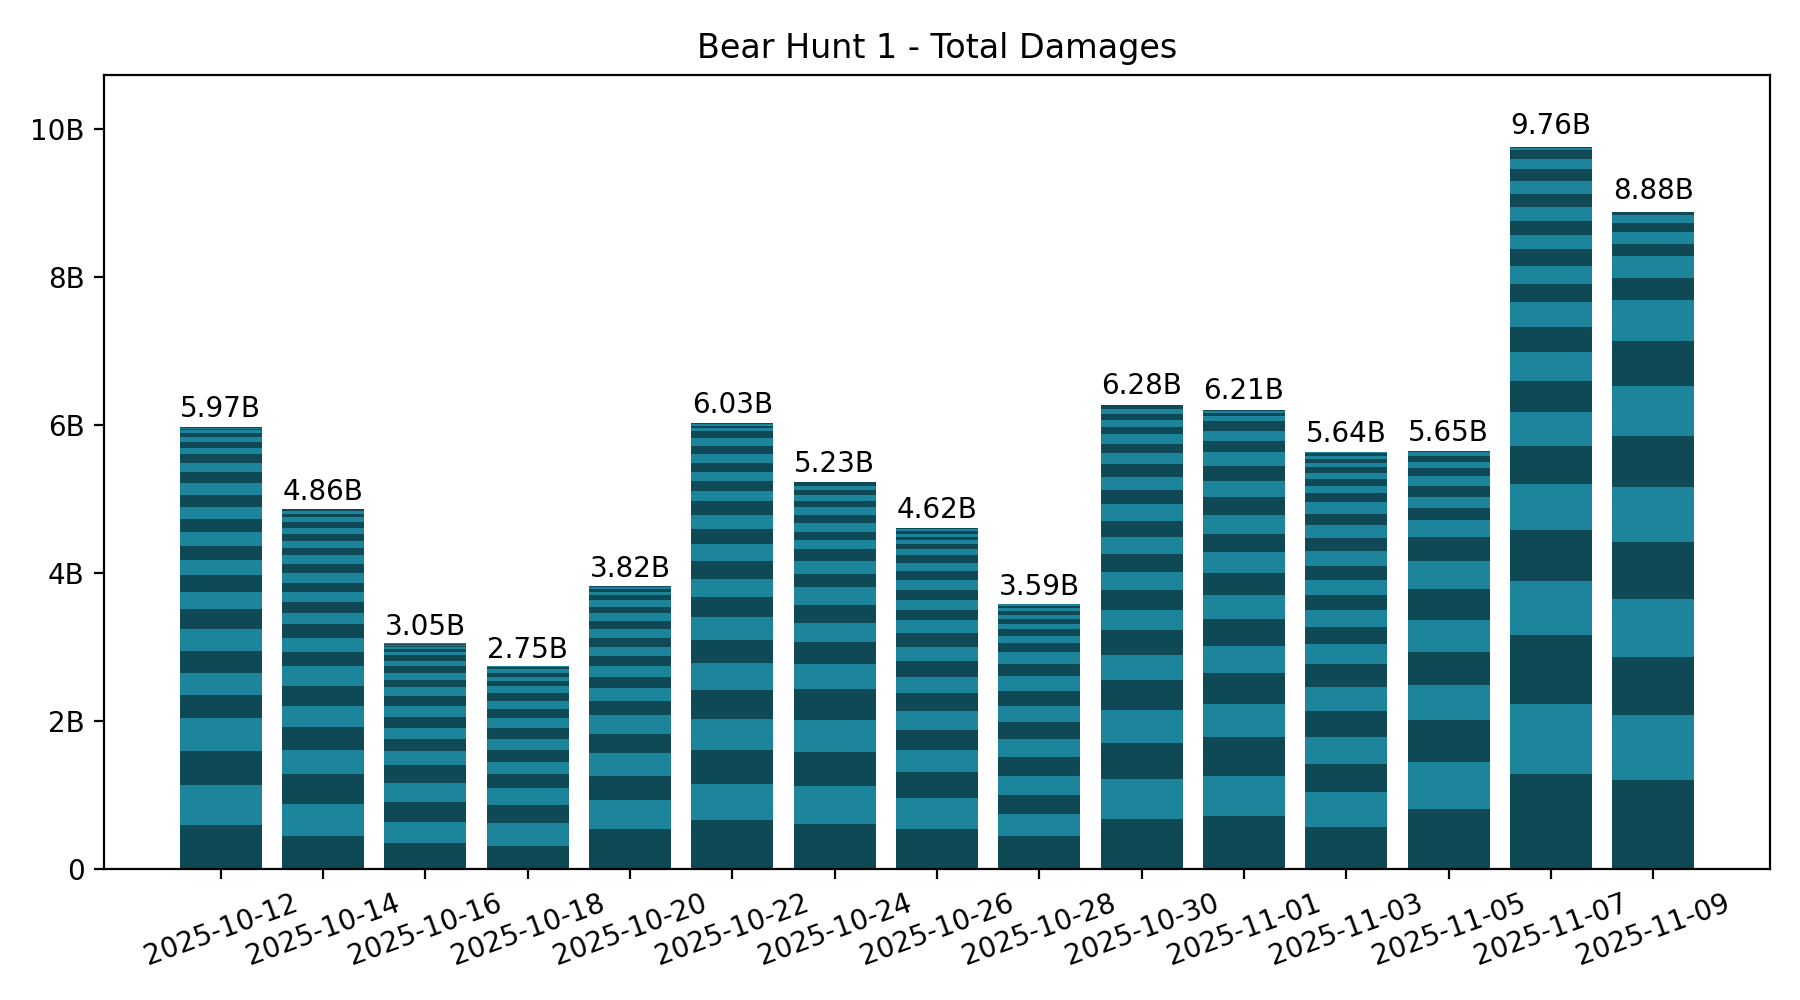
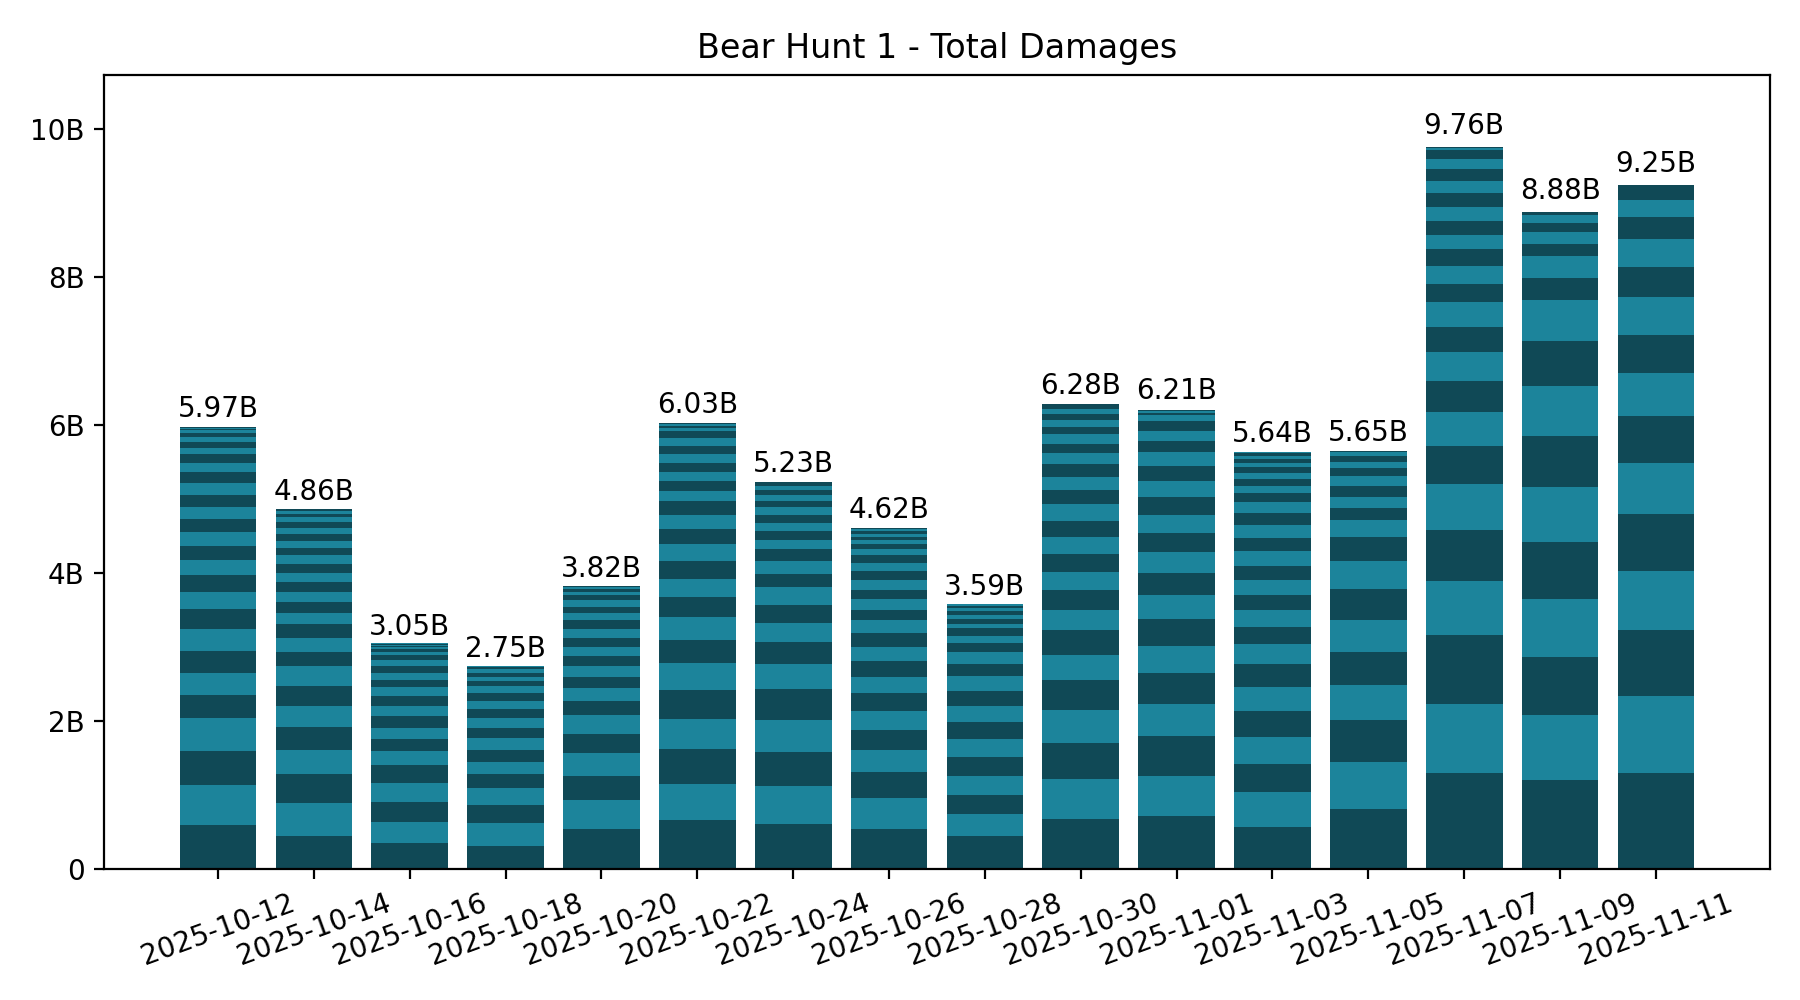
chore: auto updates

Changed region(s): [[0.0933, 0.093, 0.9644, 0.868], [0.0622, 0.899, 0.9644, 0.961]]

diff --git a/bear_hunt/README.md b/bear_hunt/README.md
@@ -69,6 +69,7 @@ print(
 | 2025-11-05 |        19 |       5.65B |
 | 2025-11-07 |        25 |       9.76B |
 | 2025-11-09 |        17 |       8.88B |
+| 2025-11-11 |        16 |       9.25B |
 
 <!-- [[[end]]] -->
 
@@ -90,50 +91,49 @@ print(
 
 |   # | Player           |   Score | # Hunts |
 | --: | :--------------- | ------: | ------: |
-|   1 | 達努巴克         |   5.11B |       7 |
-|   2 | Lyghtz           |   4.49B |       7 |
-|   3 | Troka            |   3.16B |       7 |
-|   4 | Llyod Frontera   |   2.94B |       7 |
-|   5 | Cery             |   2.93B |       4 |
-|   6 | IrotRiot         |   2.75B |       7 |
-|   7 | LadyLove         |   2.58B |       7 |
-|   8 | Briou            |   2.26B |       7 |
-|   9 | FallingRegrets   |   2.07B |       6 |
-|  10 | Coma             |   2.07B |       5 |
-|  11 | Sjefen           |   1.93B |       6 |
-|  12 | Darth Porpoise   |   1.54B |       6 |
-|  13 | BlackBebe        |   1.15B |       4 |
-|  14 | Mill2y           |   1.08B |       2 |
-|  15 | CiusconUnchained |   1.08B |       6 |
-|  16 | DarkPanda        | 905.49M |       7 |
-|  17 | Queen of Cats    | 852.06M |       5 |
-|  18 | Sir Bishop       | 604.80M |       6 |
-|  19 | Lord_DJ          | 587.78M |       3 |
-|  20 | Brett Sinclair   | 526.84M |       4 |
-|  21 | MOnsTruM224      | 506.25M |       6 |
+|   1 | Lyghtz           |   5.08B |       7 |
+|   2 | 達努巴克         |   4.82B |       6 |
+|   3 | Cery             |   3.82B |       5 |
+|   4 | Troka            |   3.73B |       7 |
+|   5 | Llyod Frontera   |   3.22B |       7 |
+|   6 | IrotRiot         |   3.19B |       7 |
+|   7 | LadyLove         |   2.78B |       7 |
+|   8 | Briou            |   2.67B |       7 |
+|   9 | Coma             |   2.45B |       5 |
+|  10 | Sjefen           |   2.43B |       6 |
+|  11 | FallingRegrets   |   2.33B |       6 |
+|  12 | Darth Porpoise   |   1.78B |       6 |
+|  13 | 遠努巴克         |   1.30B |       1 |
+|  14 | CiusconUnchained |   1.26B |       6 |
+|  15 | Mill2y           |   1.08B |       2 |
+|  16 | BlackBebe        |   1.06B |       3 |
+|  17 | DarkPanda        | 984.05M |       7 |
+|  18 | Lord_DJ          | 878.91M |       4 |
+|  19 | Queen of Cats    | 687.58M |       4 |
+|  20 | Sir Bishop       | 544.52M |       5 |
+|  21 | Brett Sinclair   | 526.84M |       4 |
 |  22 | Queen of Hearts  | 488.04M |       3 |
-|  23 | Professor        | 456.47M |       2 |
-|  24 | LEA              | 451.07M |       6 |
+|  23 | MOnsTruM224      | 483.95M |       5 |
+|  24 | Professor        | 456.47M |       2 |
 |  25 | Lord Adoniran    | 440.15M |       2 |
-|  26 | Thadeus          | 434.55M |       2 |
-|  27 | Azrael           | 411.80M |       2 |
+|  26 | Azrael           | 411.80M |       2 |
+|  27 | LEA              | 386.90M |       5 |
 |  28 | HasannEmree      | 352.14M |       2 |
 |  29 | Trimute          | 344.32M |       3 |
-|  30 | Dossari          | 296.95M |       2 |
-|  31 | King of Dogs     | 223.89M |       3 |
+|  30 | Thadeus          | 337.10M |       2 |
+|  31 | Dossari          | 296.95M |       2 |
 |  32 | Dumblidore       | 206.77M |       2 |
-|  33 | Supernova        | 158.14M |       1 |
-|  34 | SARAH            | 130.93M |       1 |
-|  35 | Morphose         | 128.51M |       2 |
+|  33 | King of Dogs     | 169.65M |       2 |
+|  34 | Supernova        | 158.14M |       1 |
+|  35 | SARAH            | 130.93M |       1 |
 |  36 | Diablo           | 118.18M |       1 |
 |  37 | XLR8R            |  69.74M |       1 |
-|  38 | sin6969          |  55.62M |       1 |
-|  39 | ROSTR            |  41.95M |       1 |
-|  40 | Teddix           |  27.49M |       1 |
-|  41 | 趴懶大           |  26.74M |       1 |
+|  38 | Morphose         |  69.26M |       1 |
+|  39 | sin6969          |  55.62M |       1 |
+|  40 | ROSTR            |  41.95M |       1 |
+|  41 | Teddix           |  27.49M |       1 |
 |  42 | Ukel             |  15.41M |       1 |
-|  43 | MAKO             |   3.38M |       1 |
-|  44 | sin666           |   2.93M |       1 |
+|  43 | sin666           |   2.93M |       1 |
 
 <!-- [[[end]]] -->
 

diff --git a/hive/README.md b/hive/README.md
@@ -56,7 +56,7 @@ Cities locations as of 2025-11-11:
 | HuiMin           | 732 | 543 |
 | I am your father | 711 | 554 |
 | IronFLS          | 736 | 545 |
-| IrotRiot         | 720 | 546 |
+| IrotRiot         | 718 | 546 |
 | Kay_forshort     | 723 | 554 |
 | King Koopa       | 724 | 544 |
 | King of Dogs     | 709 | 549 |
@@ -112,7 +112,7 @@ Cities locations as of 2025-11-11:
 | brfc             | 733 | 551 |
 | scorpion         | 730 | 541 |
 | sin666           | 728 | 556 |
-| sin6969          | 718 | 546 |
+| sin6969          | 720 | 546 |
 | tamere           | 727 | 554 |
 | ابو فهد KW       | 728 | 541 |
 | 少量課金者       | 736 | 542 |
